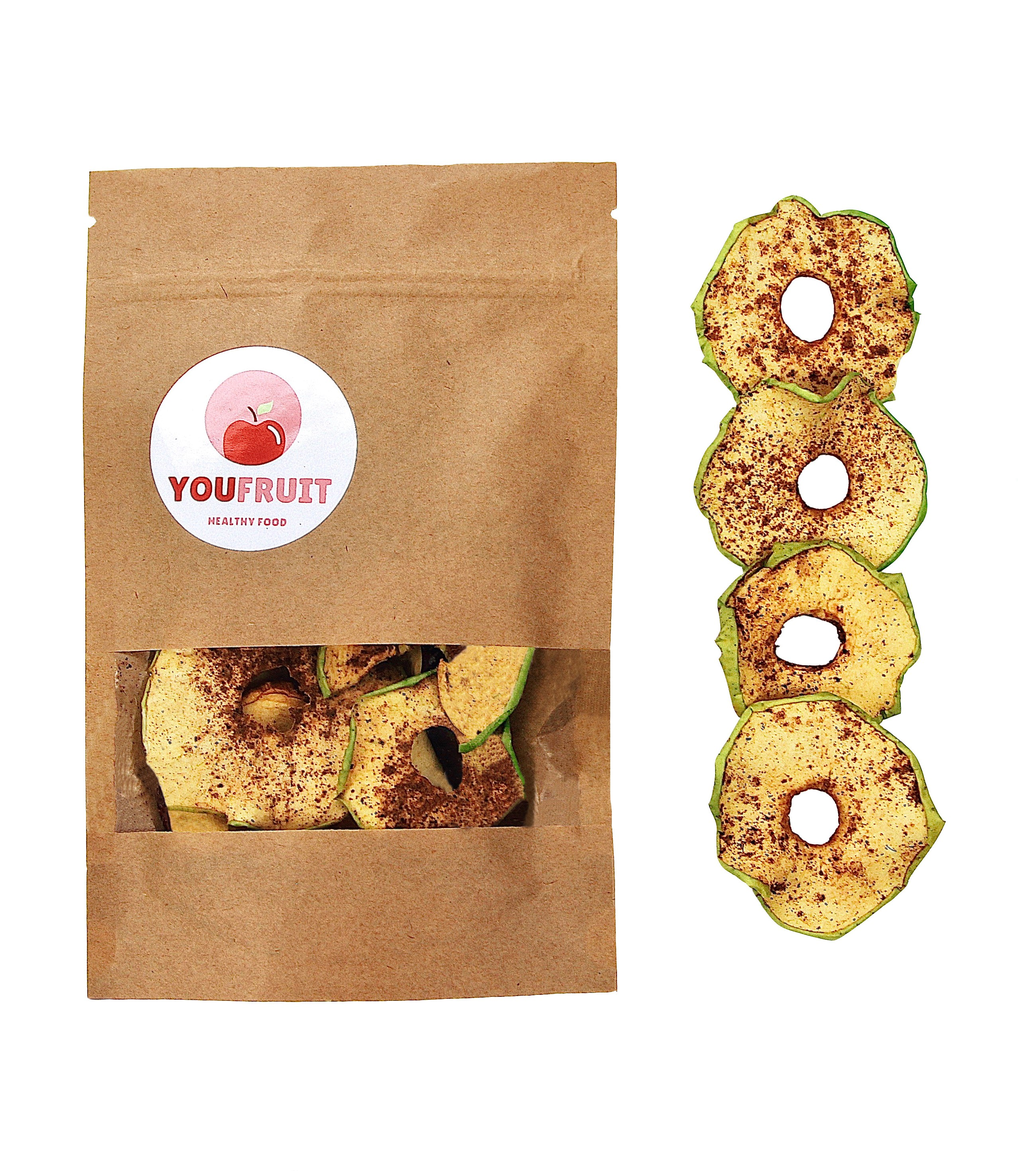
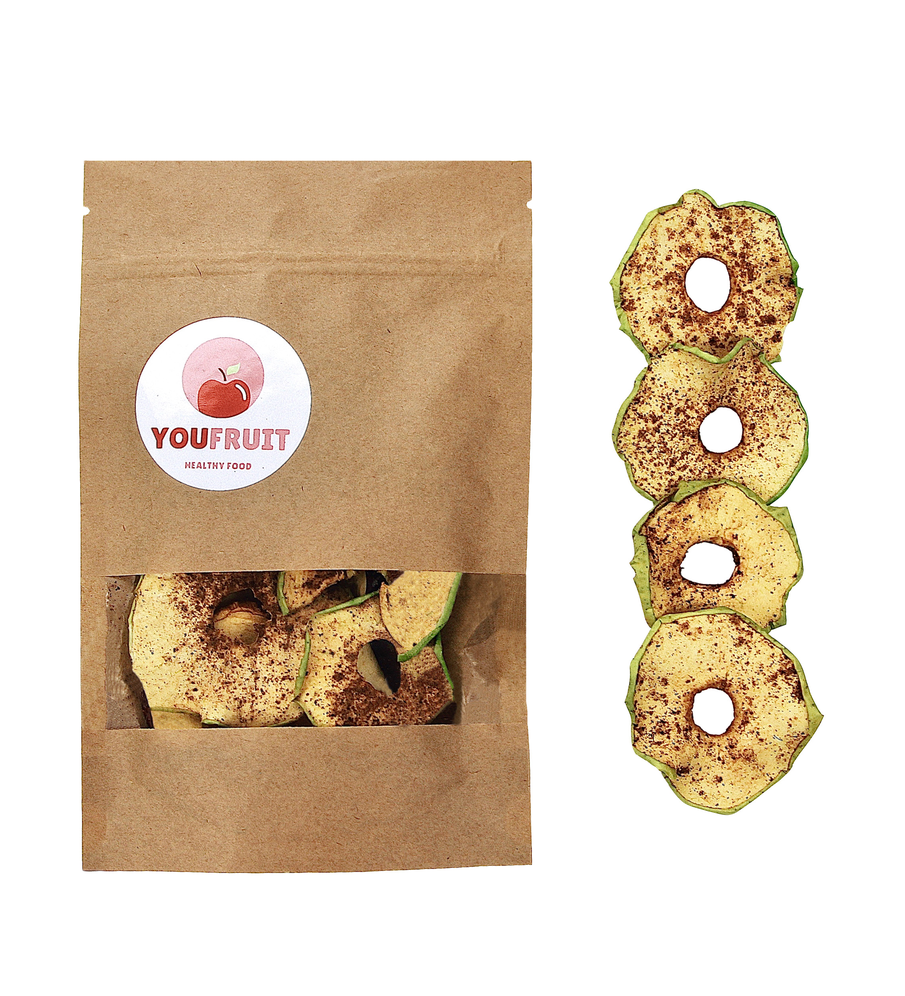
New img for frips

diff --git a/index.html b/index.html
@@ -269,15 +269,15 @@
           </div>
           <div class="swiper-slide">
             <img src="img/products-img/pear.jpg" alt="" class="swiper-slide__img">
-            <h2 class="main-h2">Грушевые</h2>
+            <h2 class="main-h2">Груша</h2>
             <p class="swiper-slide__p">Lorem ipsum dolor sit amet, consectetur adipisicing elittaque quo id, nemo, explicabo eos velit?</p>
             <div class="swiper__price">
               <p class="swiper-slide__sp">79 грн<span class="gramm">70g</span></p><button class="add_item slider-slide__a" data-id="13" data-title="Фрипсы грушевые" data-price="79" data-img="img/prod-apple1.png"><img src="img/icons/shopping-cart.svg" alt="cart" class="prod__buy"></button>
             </div>
           </div>
           <div class="swiper-slide">
-            <img src="img/products-img/prod-banana.png" alt="" class="swiper-slide__img">
-            <h2 class="main-h2">Банановые</h2>
+            <img src="img/products-img/banana.jpg" alt="" class="swiper-slide__img">
+            <h2 class="main-h2">Банан</h2>
             <p class="swiper-slide__p">Lorem ipsum dolor sit amet, consectetur adipisicing elittaque quo id, nemo, explicabo eos velit?</p>
             <div class="swiper__price">
               <p class="swiper-slide__sp">79 грн<span class="gramm">70g</span></p><button class="add_item slider-slide__a" data-id="14" data-title="Фрипсы из банана" data-price="79" data-img="img/prod-apple1.png"><img src="img/icons/shopping-cart.svg" alt="cart" class="prod__buy"></button>
@@ -285,15 +285,15 @@
           </div>
           <div class="swiper-slide">
             <img src="img/products-img/orange.jpg" alt="" class="swiper-slide__img">
-            <h2 class="main-h2">Апельсиновые</h2>
+            <h2 class="main-h2">Апельсин</h2>
             <p class="swiper-slide__p">Lorem ipsum dolor sit amet, consectetur adipisicing elittaque quo id, nemo, explicabo eos velit?</p>
             <div class="swiper__price">
               <p class="swiper-slide__sp">79 грн<span class="gramm">70g</span></p><button class="add_item slider-slide__a" data-id="15" data-title="Фрипсы апельсиновые" data-price="79" data-img="img/prod-apple1.png"><img src="img/icons/shopping-cart.svg" alt="cart" class="prod__buy"></button>
             </div>
           </div>
           <div class="swiper-slide">
-            <img src="img/products-img/prod-kiwi.png" alt="" class="swiper-slide__img">
-            <h2 class="main-h2">Из киви</h2>
+            <img src="img/products-img/kiwi.jpg" alt="" class="swiper-slide__img">
+            <h2 class="main-h2">Киви</h2>
             <p class="swiper-slide__p">Lorem ipsum dolor sit amet, consectetur adipisicing elittaque quo id, nemo, explicabo eos velit?</p>
             <div class="swiper__price">
               <p class="swiper-slide__sp">79 грн<span class="gramm">70g</span></p><button class="add_item slider-slide__a" data-id="16" data-title="Фрипсы из киви" data-price="79" data-img="img/prod-apple1.png"><img src="img/icons/shopping-cart.svg" alt="cart" class="prod__buy"></button>
@@ -301,7 +301,7 @@
           </div>
           <div class="swiper-slide">
             <img src="img/products-img/sharon.jpg" alt="" class="swiper-slide__img">
-            <h2 class="main-h2">Из шарона</h2>
+            <h2 class="main-h2">Шарон</h2>
             <p class="swiper-slide__p">Lorem ipsum dolor sit amet, consectetur adipisicing elittaque quo id, nemo, explicabo eos velit?</p>
             <div class="swiper__price">
               <p class="swiper-slide__sp">79 грн<span class="gramm">70g</span></p><button class="add_item slider-slide__a" data-id="17" data-title="Фрипсы из шарона" data-price="79" data-img="img/prod-apple1.png"><img src="img/icons/shopping-cart.svg" alt="cart" class="prod__buy"></button>
@@ -310,6 +310,22 @@
           <div class="swiper-slide">
             <img src="img/products-img/mango.jpg" alt="" class="swiper-slide__img">
             <h2 class="main-h2">Манго</h2>
+            <p class="swiper-slide__p">Lorem ipsum dolor sit amet, consectetur adipisicing elittaque quo id, nemo, explicabo eos velit?</p>
+            <div class="swiper__price">
+              <p class="swiper-slide__sp">79 грн<span class="gramm">70g</span></p><button class="add_item slider-slide__a" data-id="17" data-title="Фрипсы из шарона" data-price="79" data-img="img/prod-apple1.png"><img src="img/icons/shopping-cart.svg" alt="cart" class="prod__buy"></button>
+            </div>
+          </div>
+          <div class="swiper-slide">
+            <img src="img/products-img/pineapple.jpg" alt="" class="swiper-slide__img">
+            <h2 class="main-h2">Ананас</h2>
+            <p class="swiper-slide__p">Lorem ipsum dolor sit amet, consectetur adipisicing elittaque quo id, nemo, explicabo eos velit?</p>
+            <div class="swiper__price">
+              <p class="swiper-slide__sp">79 грн<span class="gramm">70g</span></p><button class="add_item slider-slide__a" data-id="17" data-title="Фрипсы из шарона" data-price="79" data-img="img/prod-apple1.png"><img src="img/icons/shopping-cart.svg" alt="cart" class="prod__buy"></button>
+            </div>
+          </div>
+          <div class="swiper-slide">
+            <img src="img/products-img/mix.jpg" alt="" class="swiper-slide__img">
+            <h2 class="main-h2">Микс</h2>
             <p class="swiper-slide__p">Lorem ipsum dolor sit amet, consectetur adipisicing elittaque quo id, nemo, explicabo eos velit?</p>
             <div class="swiper__price">
               <p class="swiper-slide__sp">79 грн<span class="gramm">70g</span></p><button class="add_item slider-slide__a" data-id="17" data-title="Фрипсы из шарона" data-price="79" data-img="img/prod-apple1.png"><img src="img/icons/shopping-cart.svg" alt="cart" class="prod__buy"></button>
